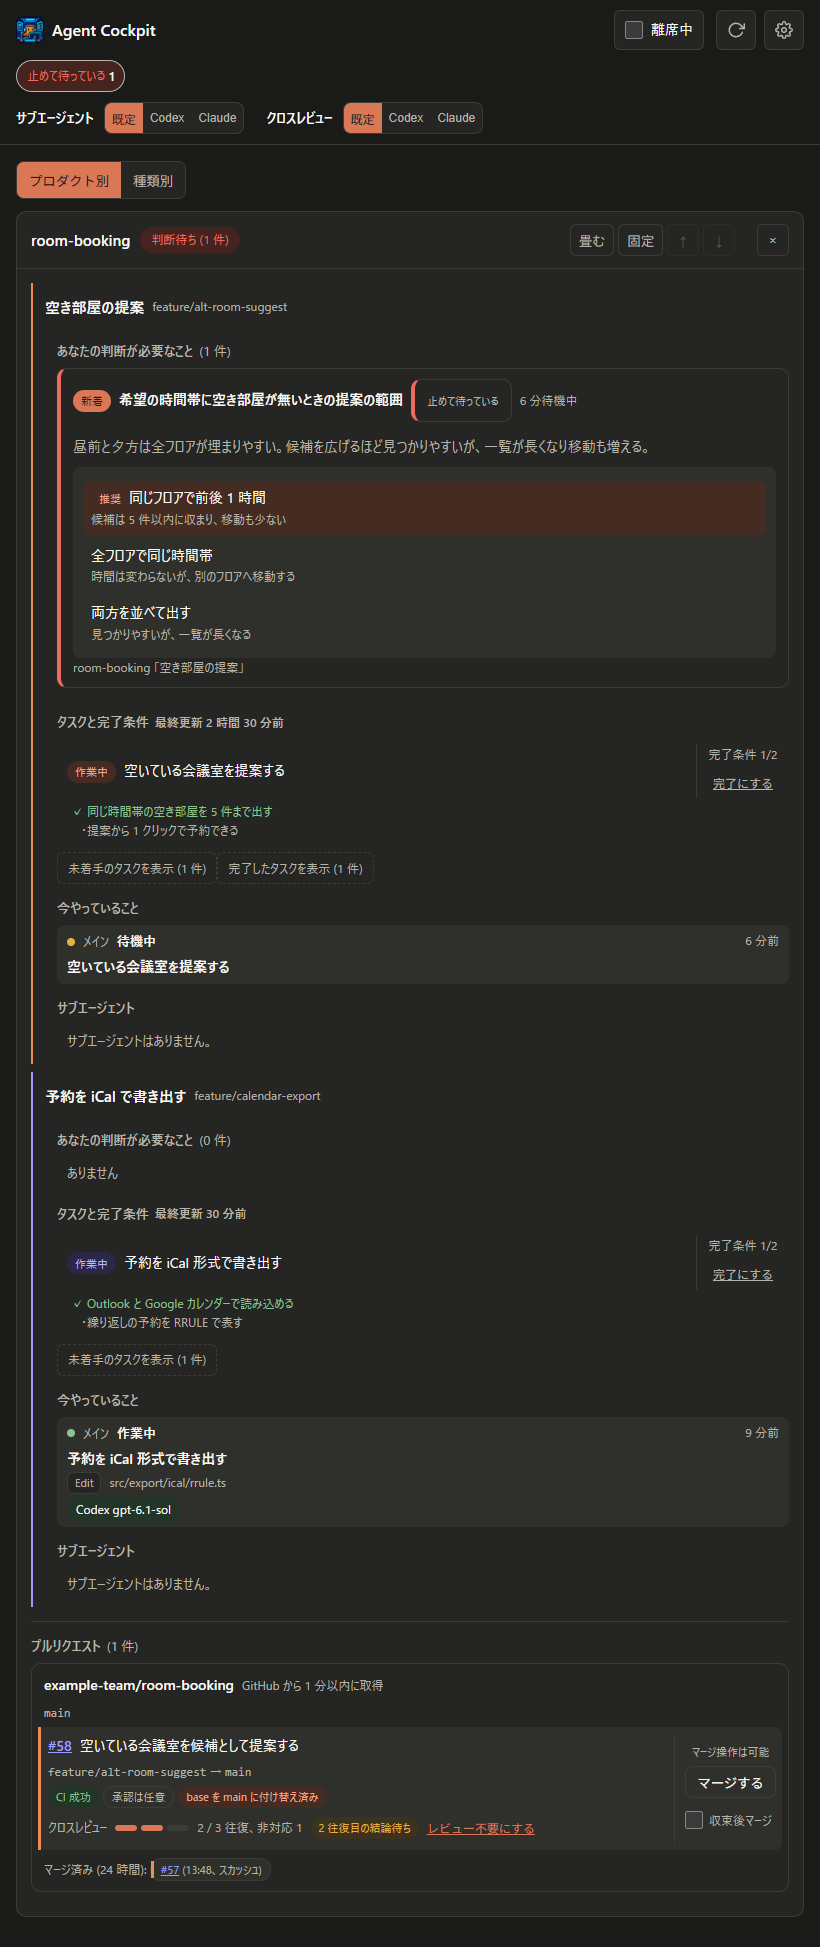
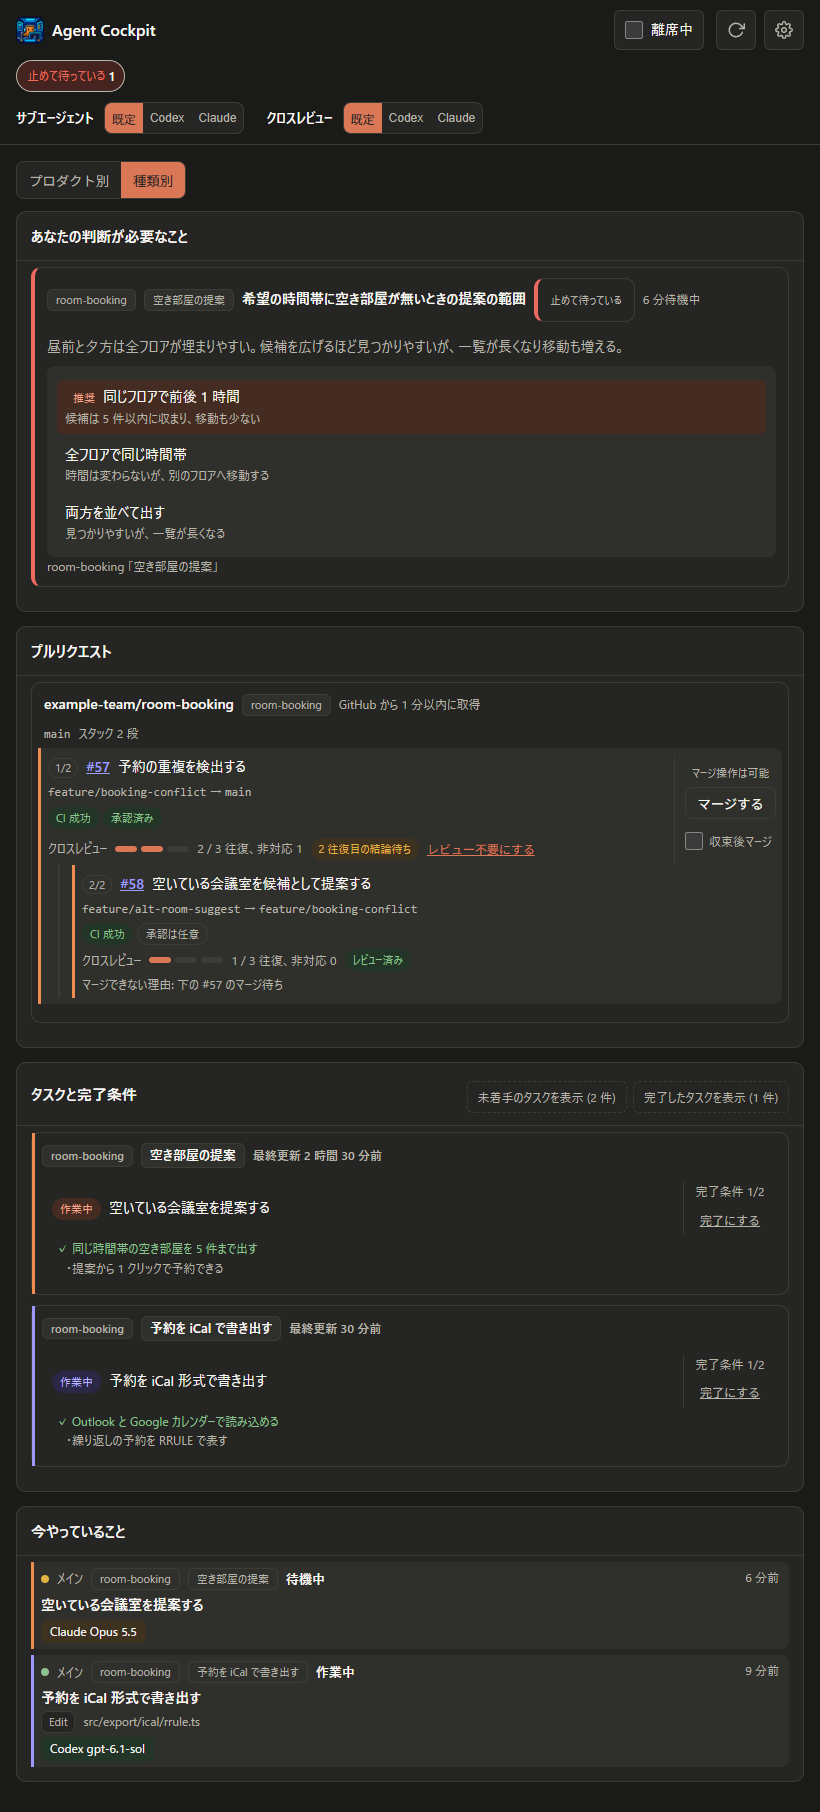
feat(site): 画面の画像を種類別の表示にし、PR を 2 段のスタックで見せる
- 種類別の表示で撮り、欄の並びはアプリの既定の値のままにする
- 1 枚目の PR は、下の段がクロスレビュー中、上の段がレビュー済みで下の段のマージ待ちのスタックにする
- Claude のメインを Opus 5.5 として見せるため、デモでメインのモデルをシナリオから渡す

diff --git a/site/index.html b/site/index.html
@@ -152,15 +152,15 @@
   <section id="screens">
     <div class="wrap">
       <h2>画面</h2>
-      <p class="lead">プロダクトごとに、セッション、判断待ち、タスク、今やっていること、PR をまとめて表示します。画像を押すと原寸で開きます。</p>
+      <p class="lead">判断待ち、PR、タスク、今やっていることを、すべてのセッションから集めて種類ごとに並べます。画像を押すと原寸で開きます。</p>
       <div class="shots">
         <figure class="shot">
-          <figcaption><b>判断待ちと PR のスタック</b><span>Claude Code が選択肢を添えて判断を待ち、隣で Codex が作業しています。積み上げた PR は、下の段がレビューを終えてマージ済み、上の段がクロスレビュー中です。</span></figcaption>
-          <a href="img/review/review.png"><img src="img/review/review.png" alt="Agent Cockpit の画面。room-booking のカードに、選択肢を 3 つ添えて判断を待つ Claude Code のセッションと、作業中の Codex のセッションが並ぶ。下のプルリクエストの欄では、#58 がクロスレビューの 2 往復目で、下の段の #57 はマージ済みとして表示されている。" width="820" height="1947" loading="lazy"></a>
+          <figcaption><b>判断待ちと PR のスタック</b><span>Claude Code が選択肢を添えて判断を待ち、隣で Codex が作業しています。積み上げた PR は、下の段がクロスレビュー中で、上の段はレビューを終えて下の段のマージを待っています。</span></figcaption>
+          <a href="img/review/review.png"><img src="img/review/review.png" alt="Agent Cockpit の種類別の画面。あなたの判断が必要なことに、選択肢を 3 つ添えた Claude Code の判断事項がある。プルリクエストの欄には 2 段のスタックがあり、1 段目の #57 はクロスレビューの 2 往復目の結論待ち、2 段目の #58 はレビュー済みで #57 のマージ待ち。今やっていることには、待機中の Claude Opus 5.5 のメインと、作業中の Codex gpt-6.1-sol のメインが並ぶ。" width="820" height="1812" loading="lazy"></a>
         </figure>
         <figure class="shot">
           <figcaption><b>タスクとサブエージェント</b><span>Claude Code と Codex のセッションが、それぞれタスクと完了条件を持って作業しています。Claude Code は、Claude で動く担当と Codex に任せた担当のサブエージェントを並行して使っています。</span></figcaption>
-          <a href="img/work/work.png"><img src="img/work/work.png" alt="Agent Cockpit の画面。expense-app のカードに、作業中の Claude Code と Codex のセッションが並び、それぞれにタスクと完了条件がある。Claude Code のサブエージェントの欄には、Claude Sonnet 5.5 で動く担当と、Codex gpt-6-luna に委譲した担当が稼働中として表示されている。" width="820" height="1835" loading="lazy"></a>
+          <a href="img/work/work.png"><img src="img/work/work.png" alt="Agent Cockpit の種類別の画面。タスクと完了条件の欄に、Claude Code と Codex のセッションのタスクが完了条件つきで並ぶ。今やっていることには、作業中の Claude Opus 5.5 と Codex gpt-6.1-sol のメインと、Claude Sonnet 5.5 で動く担当と Codex gpt-6-luna に委譲した担当のサブエージェントが稼働中として並ぶ。" width="820" height="1543" loading="lazy"></a>
         </figure>
       </div>
     </div>

diff --git a/tools/manual/demo/site-review.js b/tools/manual/demo/site-review.js
@@ -8,7 +8,7 @@ const headOf = (number) => sha(`${REPOSITORY}#${number}`);
 const pullRequestUrl = (number) => `https://github.com/${REPOSITORY}/pull/${number}`;
 
 // 配布ページの 1 枚目。Claude Code と Codex が同じプロダクトで動き、判断事項が選択肢つきで待っていて、
-// 積み上げた 2 段の PR のうち下の段はレビューを終えてマージ済み、上の段はクロスレビュー中である。
+// 積み上げた 2 段の PR のうち、下の段はクロスレビュー中で、上の段はレビューを終えて下の段のマージを待っている。
 module.exports = function siteReview({ baseTime }) {
   const iso = (minutesAgo) => new Date(baseTime - minutesAgo * 60_000).toISOString();
 
@@ -23,10 +23,10 @@ module.exports = function siteReview({ baseTime }) {
         tool: true,
         state: {
           'feature/booking-conflict': {
-            round: 2, dismissed: [], lastReviewedSha: headOf(57), lastTriage: { round: 2, sha: headOf(57), outcome: 'converged' },
+            round: 2, dismissed: ['エラー文言の言い回し'], lastReviewedSha: headOf(57), lastTriage: { round: 1, sha: headOf(57), outcome: 'fixing' },
           },
           'feature/alt-room-suggest': {
-            round: 2, dismissed: ['候補の並び順の命名'], lastReviewedSha: headOf(58), lastTriage: { round: 1, sha: headOf(58), outcome: 'fixing' },
+            round: 1, dismissed: [], lastReviewedSha: headOf(58), lastTriage: { round: 1, sha: headOf(58), outcome: 'converged' },
           },
         },
       },
@@ -34,7 +34,7 @@ module.exports = function siteReview({ baseTime }) {
     }],
 
     sessions: [
-      { key: 'claude', id: 'demo-site-review-claude', product: 'room-booking', title: '空き部屋の提案' },
+      { key: 'claude', id: 'demo-site-review-claude', product: 'room-booking', model: 'claude-opus-5-5', title: '空き部屋の提案' },
       {
         key: 'codex', id: '019a2f6e-4c1d-7b80-9e53-2d8f1a6c0b47', product: 'room-booking', worktree: 'calendar-export',
         provider: 'codex', model: 'gpt-6.1-sol', title: '予約を iCal で書き出す',
@@ -64,11 +64,10 @@ module.exports = function siteReview({ baseTime }) {
 
     async play(demo) {
       const { at, hook, plan, prs } = demo;
-      const { tool, toolStart, taskList, mergeRecordKeyOf } = siteHelpers(demo);
+      const { tool, toolStart, taskList } = siteHelpers(demo);
 
       at(240);
-      // マージ済みの PR を、隠さずに札で見せる。
-      await demo.ui('/api/display', { mode: 'product', hideFinished: false });
+      await demo.ui('/api/display', { mode: 'kind' });
       for (const key of ['claude', 'codex']) {
         await hook(key, { hook_event_name: 'SessionStart', source: 'startup' });
         await hook(key, { hook_event_name: 'UserPromptSubmit' });
@@ -96,14 +95,6 @@ module.exports = function siteReview({ baseTime }) {
         ['提案の範囲を決める', 'todo', ['空き部屋が無いときの扱いを決める', false]],
       ));
       await prs('claude', { kind: 'add_pr', url: pullRequestUrl(58) });
-      await demo.refreshPullRequests();
-
-      // 下の段はクロスレビューが収束したので、画面からマージした。上の段の base は main に付け替わる。
-      at(42);
-      const target = await mergeRecordKeyOf(57);
-      await demo.ui('/api/pull-requests/merge', {
-        number: 57, registration_key: target.mergeRecordKey, headRefOid: target.headRefOid, method: 'squash', deleteBranch: true,
-      });
       await demo.refreshPullRequests();
 
       at(30);

diff --git a/tools/manual/demo-server.js b/tools/manual/demo-server.js
@@ -160,6 +160,12 @@ async function startDemoServer(options = {}) {
       codexAgentScriptExists: async () => integrations.codexAgent,
       crossReviewToolExists: async () => integrations.crossReview,
       openExternalUrl: async () => {},
+      // Claude のメインのモデルは transcript から読む。デモには transcript が無いので、シナリオのセッションの model を返す。
+      readSessionModel: async (_claudeHome, _cwd, sessionId) => {
+        const model = scenario.sessions.find((session) => session.id === sessionId)?.model;
+        return model ? { model, at: null } : null;
+      },
+      sessionModelDelayMs: 0,
       // デモには回答を待つフックが無く生存確認が届かないので、預かった質問を生存確認の途絶で解除しない。
       answerDeliveryOptions: { maxAskPollGapMs: DEMO_ASK_POLL_GAP_MS },
     });
@@ -244,6 +250,8 @@ async function startDemoServer(options = {}) {
     };
 
     await scenario.play(demo);
+    // モデルの読み取りは実時間のタイマーで後から走るので、流し込みの後に終わるのを待つ。
+    await new Promise((resolve) => { setTimeout(resolve, 50); });
     clock.set(baseTime);
     // Codex のスレッド名は定期の走査で読むので、撮影の前に 1 回走査して題に反映する。
     await runtime.refreshSessionFiles(clock.now());

diff --git a/tools/manual/demo/site-work.js b/tools/manual/demo/site-work.js
@@ -22,7 +22,7 @@ module.exports = function siteWork({ baseTime }) {
     }],
 
     sessions: [
-      { key: 'claude', id: 'demo-site-work-claude', product: 'expense-app', title: '領収書の読み取り' },
+      { key: 'claude', id: 'demo-site-work-claude', product: 'expense-app', model: 'claude-opus-5-5', title: '領収書の読み取り' },
       {
         key: 'codex', id: '019a3b71-8e2c-7d14-a6f0-5c9e2b7d3a18', product: 'expense-app', worktree: 'approval-notify',
         provider: 'codex', model: 'gpt-6.1-sol', title: '承認待ちの通知',
@@ -49,7 +49,7 @@ module.exports = function siteWork({ baseTime }) {
       const { tool, toolStart, taskList, subagentStart, codexLaunch } = siteHelpers(demo);
 
       at(180);
-      await demo.ui('/api/display', { mode: 'product' });
+      await demo.ui('/api/display', { mode: 'kind' });
       for (const key of ['claude', 'codex']) {
         await hook(key, { hook_event_name: 'SessionStart', source: 'startup' });
         await hook(key, { hook_event_name: 'UserPromptSubmit' });

diff --git a/tools/manual/demo/site-helpers.js b/tools/manual/demo/site-helpers.js
@@ -35,18 +35,6 @@ function siteHelpers(demo) {
         `codex-agent: run=${runId}`,
       ].join('\n'));
     },
-    /** 画面が持つ PR のマージ用の鍵を、状態の中から番号で探す。 */
-    async mergeRecordKeyOf(number) {
-      const found = [];
-      const visit = (value) => {
-        if (!value || typeof value !== 'object') return;
-        if (value.number === number && typeof value.mergeRecordKey === 'string') found.push(value);
-        for (const child of Object.values(value)) visit(child);
-      };
-      visit(await demo.getState());
-      if (!found.length) throw new Error(`#${number} のマージ用の鍵が状態にありません`);
-      return found[0];
-    },
   };
 }
 

diff --git a/docs/design/site.md b/docs/design/site.md
@@ -26,10 +26,12 @@ site/
 
 ページには、幅 820px、倍率 1 で撮った画像を 2 枚載せる。
 縦の長さは内容に合わせて伸ばす。
+表示は種類別にし、欄の並びはアプリの既定の値のままにする。プロダクト別はセッションごとに欄を繰り返すので、縦に長くなりすぎるためである。
+Claude Code のメインは Opus 5.5(`claude-opus-5-5`)、Codex のメインは GPT 6.1 Sol(`gpt-6.1-sol`)で動いている体裁にする。
 
 | 定義 | シナリオ | 見せるもの |
 |---|---|---|
-| `review` | `site-review` | Claude Code と Codex のセッションが同じプロダクトで動き、Claude Code が選択肢つきで判断を待っている。2 段に積んだ PR のうち、下の段はクロスレビューを終えて画面からマージ済み、上の段はクロスレビューの 2 往復目 |
+| `review` | `site-review` | Claude Code と Codex のセッションが同じプロダクトで動き、Claude Code が選択肢つきで判断を待っている。2 段に積んだ PR のうち、下の段はクロスレビューの 2 往復目、上の段はレビューを終えて下の段のマージ待ち |
 | `work` | `site-work` | Claude Code と Codex のセッションが、それぞれタスクと完了条件を持って作業中。Claude Code のメインは、Claude で動く担当と Codex に委譲した担当のサブエージェントを並行して使っている |
 
 撮影の仕組みはマニュアルと同じで、デモの常駐サーバーにシナリオを流し込んだ画面を撮る([manual.md](manual.md) の「デモ状態」と「スクリーンショットの撮影」)。
@@ -40,7 +42,8 @@ site/
 - 撮る範囲、ウィンドウの幅、配色は、撮影の定義 `site/shots/<定義名>.json` で直す。
 - 直したら `npm run site:capture`(定義名を足すと、その定義だけ)で撮り直す。画像の大きさが変わったら、`site/index.html` の `img` の `width` と `height` を合わせる。
 
-プロダクトの中のセッションは、最後に動いたものが上に並ぶ。上に見せたいセッションは、シナリオの最後のほうで動かす。
+今やっていることの欄は、最後に動いたセッションが上に並ぶ。上に見せたいセッションは、シナリオの最後のほうで動かす。
+メインのモデルは、シナリオのセッションの `model` に書く。
 
 ## 決めていないこと
 
